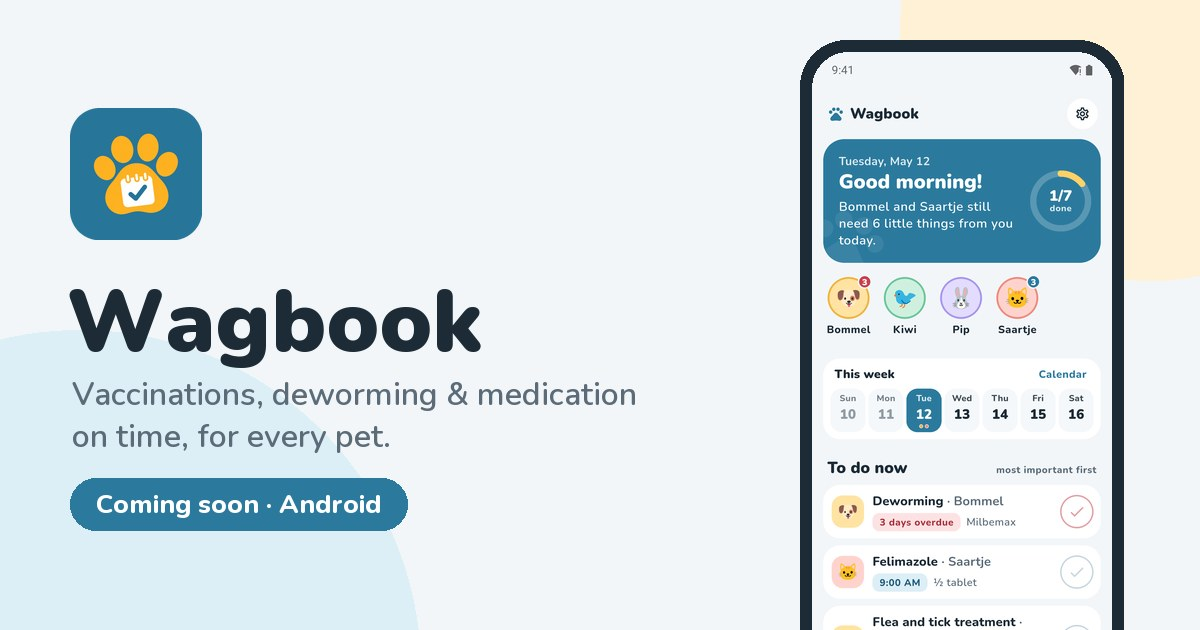
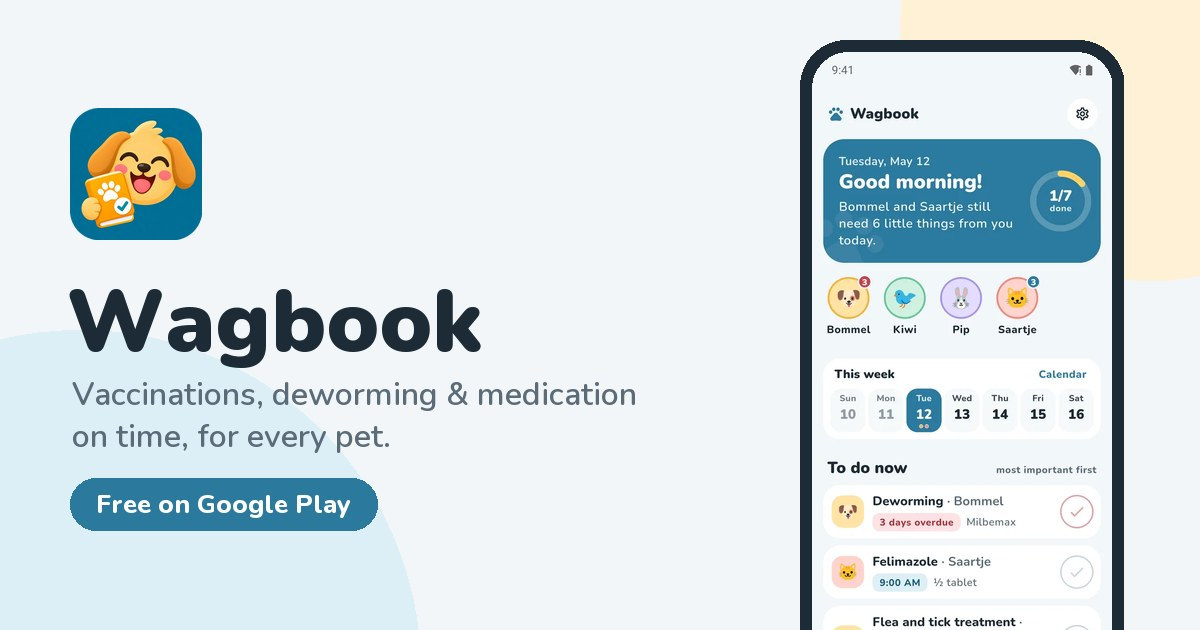
Kwispelboek: nieuw Kwispel-icoon, deelplaatje 'Free on Google Play', nieuwe functies 1.4/1.4.1 (dagelijkse routine, afspraken & spreekkamer, kosten & mijlpalen, oppas-modus)

Changed region(s): [[0.0308, 0.1508, 0.185, 0.3921], [0.0617, 0.754, 0.3392, 0.8444]]

diff --git a/kwispelboek.html b/kwispelboek.html
@@ -630,6 +630,26 @@
                 <p data-i18n="feat.household.desc">Link your partner&#x27;s or sitter&#x27;s phone with a code. What one of you ticks off, the other sees too. Encrypted, no account.</p>
             </div>
             <div class="feat-card a-fade" style="transition-delay:0.44s">
+                <div class="feat-ico">🍽</div>
+                <h3><span data-i18n="feat.routine.title">Daily routine</span></h3>
+                <p data-i18n="feat.routine.desc">Tick off food, walks and the litter box. Everyone in the household sees right away who already fed the dog, with the time and their name.</p>
+            </div>
+            <div class="feat-card a-fade" style="transition-delay:0.44s">
+                <div class="feat-ico">🗓</div>
+                <h3><span data-i18n="feat.appts.title">Appointments &amp; vet room</span></h3>
+                <p data-i18n="feat.appts.desc">Vet, groomer or kennel with a reminder and in your calendar. At the vet: everything on one calm screen, with your questions to tick off.</p>
+            </div>
+            <div class="feat-card a-fade" style="transition-delay:0.44s">
+                <div class="feat-ico">💶</div>
+                <h3><span data-i18n="feat.costs.title">Costs &amp; milestones</span></h3>
+                <p data-i18n="feat.costs.desc">See what your pets cost per month and per kind, and earn 17 shiny badges per pet.</p>
+            </div>
+            <div class="feat-card a-fade" style="transition-delay:0.44s">
+                <div class="feat-ico">🤝</div>
+                <h3><span data-i18n="feat.sitter.title">Sitter mode</span></h3>
+                <p data-i18n="feat.sitter.desc">The sitter gets the app for a while, with just what needs doing today. You see what was done.</p>
+            </div>
+            <div class="feat-card a-fade" style="transition-delay:0.44s">
                 <div class="feat-ico">🥣</div>
                 <h3><span data-i18n="feat.food.title">Food list</span></h3>
                 <p data-i18n="feat.food.desc">See how many days the bag of food lasts and get a heads-up in time to buy more.</p>
@@ -994,6 +1014,14 @@ const T = {
         "feat.memory.desc": "Has your pet passed away? Keep them in memory: reminders stop, and they get a calm page with your own words, photos and diary.",
         "feat.household.title": "Share with your household",
         "feat.household.desc": "Link your partner's or sitter's phone with a code. What one of you ticks off, the other sees too. Encrypted, no account.",
+        "feat.routine.title": "Daily routine",
+        "feat.routine.desc": "Tick off food, walks and the litter box. Everyone in the household sees right away who already fed the dog, with the time and their name.",
+        "feat.appts.title": "Appointments & vet room",
+        "feat.appts.desc": "Vet, groomer or kennel with a reminder and in your calendar. At the vet: everything on one calm screen, with your questions to tick off.",
+        "feat.costs.title": "Costs & milestones",
+        "feat.costs.desc": "See what your pets cost per month and per kind, and earn 17 shiny badges per pet.",
+        "feat.sitter.title": "Sitter mode",
+        "feat.sitter.desc": "The sitter gets the app for a while, with just what needs doing today. You see what was done.",
         "feat.food.title": "Food list",
         "feat.food.desc": "See how many days the bag of food lasts and get a heads-up in time to buy more.",
         "feat.tag.title": "Collar QR",
@@ -1125,6 +1153,14 @@ const T = {
         "feat.memory.desc": "Is je dier overleden? Zet het in herinnering: de meldingen stoppen, en er komt een rustige pagina met je eigen woorden, foto's en dagboek.",
         "feat.household.title": "Samen bijhouden",
         "feat.household.desc": "Koppel de telefoon van je partner of oppas met een code. Wat de één afvinkt, ziet de ander ook. Versleuteld, zonder account.",
+        "feat.routine.title": "Dagelijkse routine",
+        "feat.routine.desc": "Vink eten, uitlaten en de kattenbak af. Je huisgenoten zien meteen wie er al gevoerd heeft, met tijd en naam.",
+        "feat.appts.title": "Afspraken & spreekkamer",
+        "feat.appts.desc": "Dierenarts, trimsalon of pension met een herinnering en in je agenda. Bij de dierenarts: alles op één rustig scherm, met je vragen om af te vinken.",
+        "feat.costs.title": "Kosten & mijlpalen",
+        "feat.costs.desc": "Zie wat je dieren kosten per maand en per soort, en verdien 17 glimmende badges per dier.",
+        "feat.sitter.title": "Oppas-modus",
+        "feat.sitter.desc": "De oppas krijgt de app voor even, met alleen wat er vandaag moet gebeuren. Jij ziet wat er gedaan is.",
         "feat.food.title": "Voerlijst",
         "feat.food.desc": "Zie hoeveel dagen de zak voer nog meegaat en krijg op tijd een seintje om nieuw voer te halen.",
         "feat.tag.title": "Halsband-QR",
